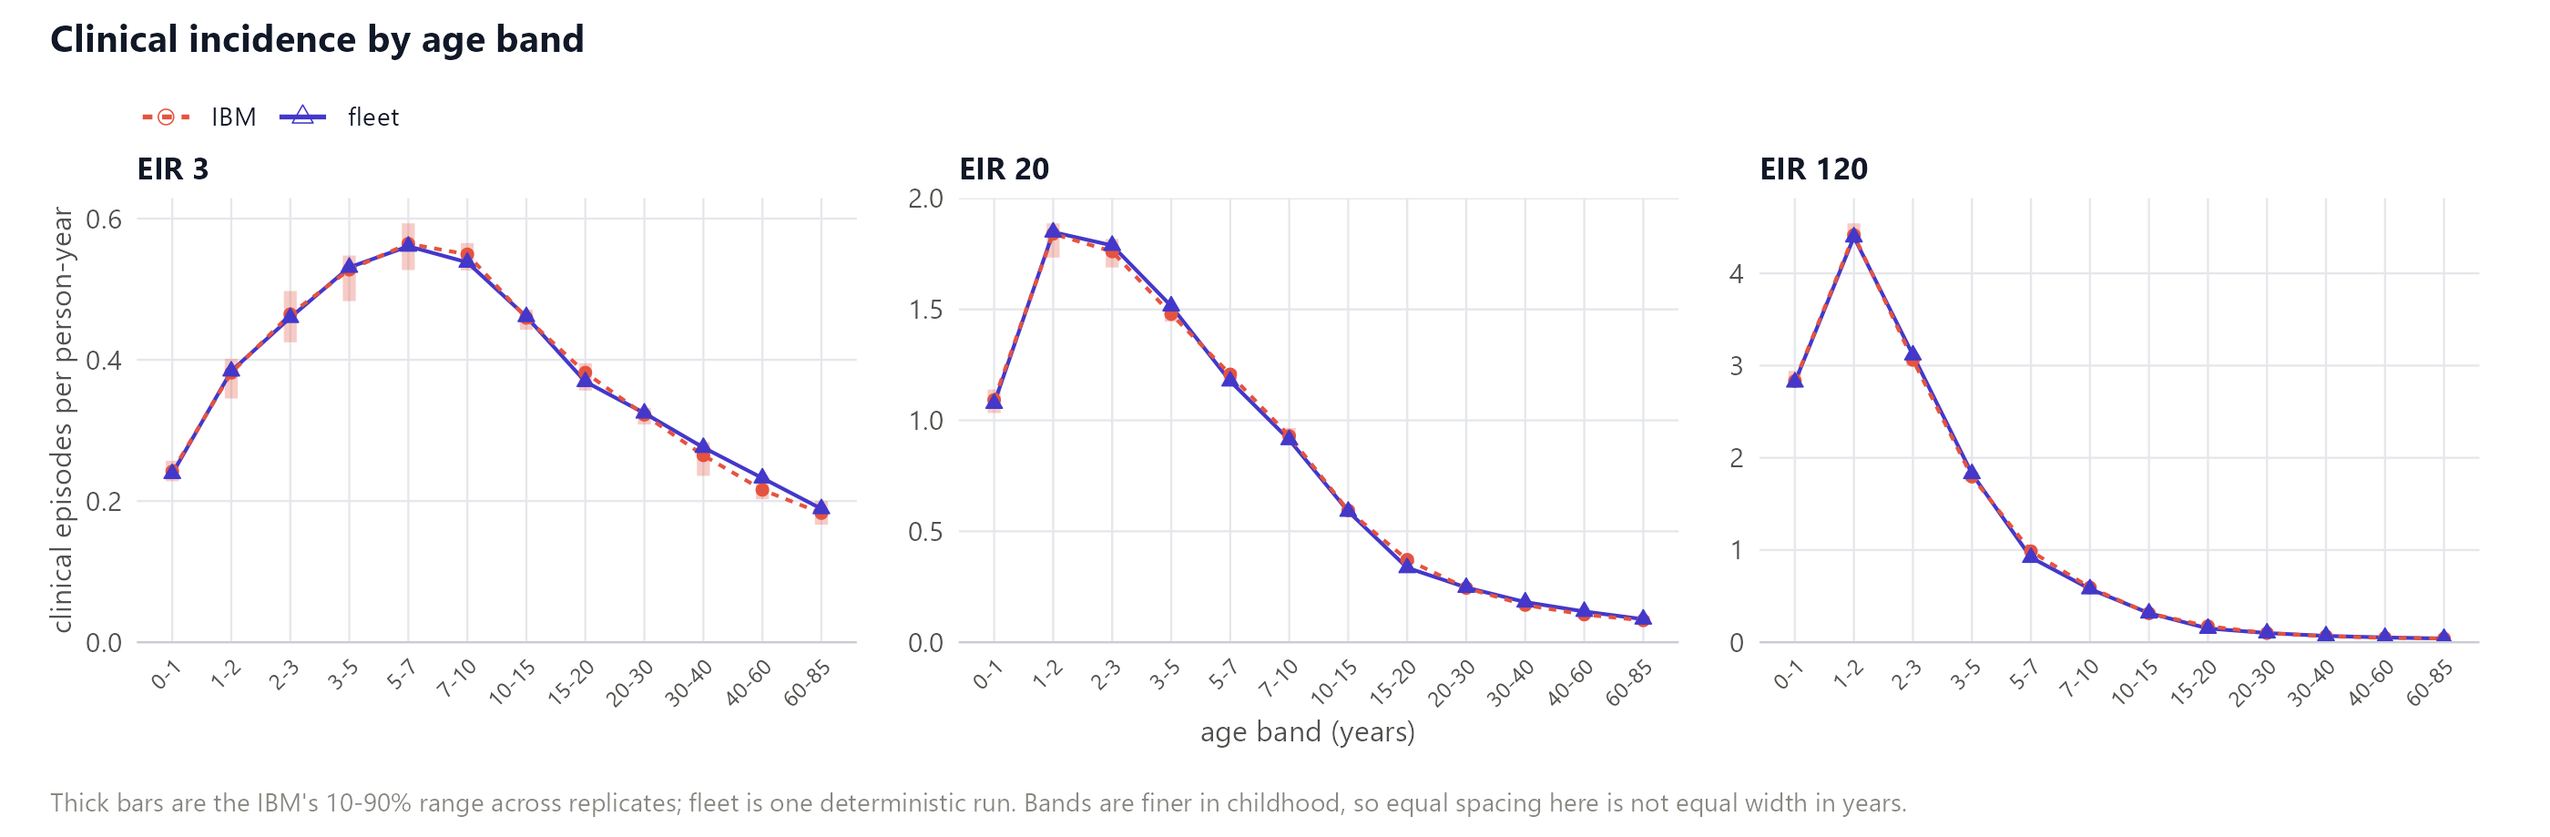
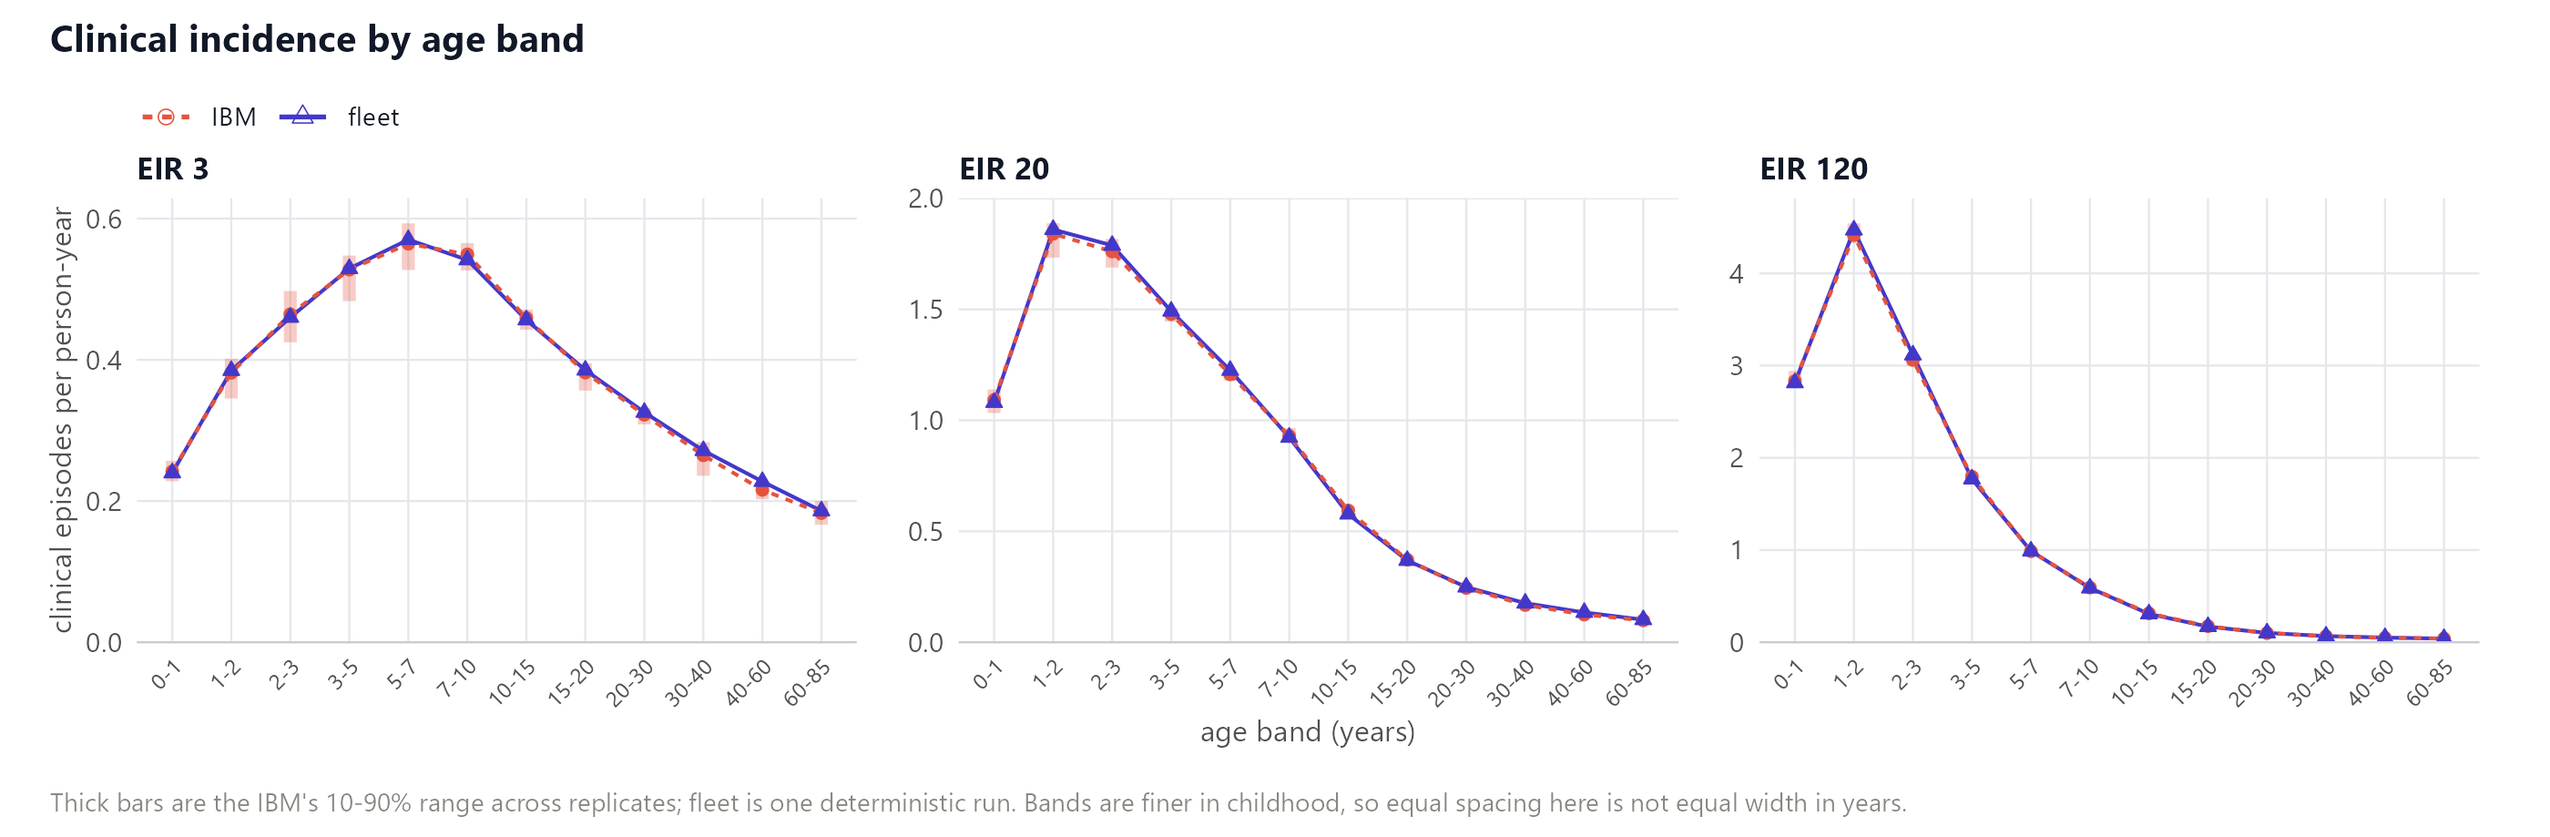
Deploying to gh-pages from @ pwinskill/fleetcheck@c1ee1c31452591e9664565759572b09e9a0bfec2 🚀

diff --git a/articles/evidence.html b/articles/evidence.html
@@ -71,7 +71,7 @@ them at the end.</p>
 <p>Every section is generated from <code>claims.yml</code>, so this page
 cannot disagree with the register, and the register cannot be changed
 without the page following.</p>
-<p><strong>11 claims — 1 failing, 0 untested, 0 open, 10
+<p><strong>11 claims — 1 failing, 0 untested, 1 open, 9
 pass.</strong></p>
 <table class="table">
 <colgroup>
@@ -93,7 +93,7 @@ pass.</strong></p>
 <td><a href="#prevalence-eir"><code>prevalence-eir</code></a></td>
 <td>2</td>
 <td>inside the IBM 10-90% replicate band at every EIR on the grid</td>
-<td>inside at 6 of 6; largest departure 1.00% of the IBM median</td>
+<td>inside at 6 of 6; largest departure 0.94% of the IBM median</td>
 <td><span class="verdict pass">pass</span></td>
 </tr>
 <tr class="even">
@@ -122,8 +122,8 @@ pass.</strong></p>
 <td>2</td>
 <td>inside the IBM 10-90% replicate band in every age band, at EIR 3, 20
 and 120</td>
-<td>inside at 28 of 36 bands across the three EIRs – 11 of 12 at EIR 3,
-7 of 12 at EIR 20, 10 of 12 at EIR 120; largest departure 13.8% of the
+<td>inside at 35 of 36 bands across the three EIRs – 12 of 12 at EIR 3,
+11 of 12 at EIR 20, 12 of 12 at EIR 120; largest departure 7.7% of the
 IBM median</td>
 <td><span class="verdict fail">FAIL</span></td>
 </tr>
@@ -133,7 +133,7 @@ IBM median</td>
 <td>inside the IBM 10-90% replicate band in every age band with non-zero
 IBM incidence, at EIR 3, 20 and 120</td>
 <td>inside at 31 of 31 bands across the three EIRs; largest departure
-88% of the IBM median, in a band an order of magnitude wider than
+83% of the IBM median, in a band an order of magnitude wider than
 that</td>
 <td><span class="verdict pass">pass</span></td>
 </tr>
@@ -142,7 +142,7 @@ that</td>
 <td>2</td>
 <td>within 0.6 percentage points of the IBM replicate band on every
 outcome</td>
-<td>inside the band on 18 of 20; worst excursion 0.36 percentage
+<td>inside the band on 22 of 24; worst excursion 0.36 percentage
 points</td>
 <td><span class="verdict pass">pass</span></td>
 </tr>
@@ -151,8 +151,9 @@ points</td>
 <td>3</td>
 <td>r &gt; 0.95 and |slope - 1| &lt; 0.10 on both clinical and severe
 incidence</td>
-<td>clinical r 0.982 slope 0.997; severe r 0.958 slope 0.946</td>
-<td><span class="verdict pass">pass</span></td>
+<td>clinical r 0.982 slope 0.997; severe r 0.958 slope 0.946 – on the
+age grid fleet used before it was log-spaced</td>
+<td><span class="verdict open">open</span></td>
 </tr>
 <tr class="odd">
 <td><a href="#population-age-structure"><code>population-age-structure</code></a></td>
@@ -166,8 +167,8 @@ years, on shares renormalised to the 0-60 population</td>
 <td><a href="#speed"><code>speed</code></a></td>
 <td>2</td>
 <td>at least 10x faster than the IBM on the same scenario set</td>
-<td>19x on cost per simulated year; 10.7 CPU-hours for the IBM against
-103 s for fleet</td>
+<td>20x on cost per simulated year; 12.4 CPU-hours for the IBM against
+110 s for fleet</td>
 <td><span class="verdict pass">pass</span></td>
 </tr>
 <tr class="odd">
@@ -208,7 +209,7 @@ tracks the IBM across transmission intensity.</p>
 <p class="claim-meta">
 tier 2 · <code>validations/02-scenarios</code>
 </p>
-<p>fleet sits within 1.6% of the IBM median at every EIR on the
+<p>fleet sits within 1.3% of the IBM median at every EIR on the
 grid.</p>
 <p><img src="cmp_eir_clin_0_5.png" alt="Under-5 clinical incidence tracks the IBM across transmission intensity."></p>
 </div>
@@ -236,20 +237,18 @@ clinical incidence tracks the IBM.</p>
 <p class="claim-meta">
 tier 2 · <code>validations/02-scenarios</code>
 </p>
-<p>The misses are not confined to bands where the disease is rare: the
-five outside the range at EIR 20 hold 39% of clinical episodes. Only
-part of this is discretisation, and refining the age grid does not fix
-it. Doubling the resolution everywhere brings the adult bands inside and
-takes the count from 28 of 36 to 30, but further refinement makes it
-worse again – 27 of 36 at 409 age groups – because the departure
-converges to a +4 to +7% excess in children under 7 that is no smaller
-at 409 groups than at 205. Those bands carry the IBM’s tightest
-replicate range, about 4% of the median, so a converged offset of that
-size fails them at any resolution. What remains is the mean-field
-approximation itself: fleet evaluates each immunity-dependent
-probability once per age group, at that group’s mean immunity, and
-averaging a convex function that way is biased however finely age is
-resolved.</p>
+<p>One band is outside, 40-60 y at EIR 20, by 7.7%. It holds 1.7% of
+clinical episodes. At EIR 3 and EIR 120 every band is inside.
+Log-spacing the age grid is what moved this, from 28 of 36 bands to 35.
+What did not work was simply using more groups: refining the old grid
+uniformly took it to 30 of 36 and then back to 27 at 409 age groups,
+because the departure converges rather than vanishing. Where the groups
+are placed mattered, and the count did not. The remaining gap is the
+mean-field approximation, not discretisation. fleet evaluates each
+immunity-dependent probability once per age group, at that group’s mean
+immunity, and averaging a convex function that way is biased however
+finely age is resolved. The claim is carried as a failure while one band
+is outside, rather than widening the criterion to fit.</p>
 <p><img src="cmp_age_clin.png" alt="The age distribution of clinical incidence tracks the IBM."></p>
 </div>
 <div class="section level2">
@@ -274,25 +273,47 @@ intervention matches the IBM.</p>
 <p class="claim-meta">
 tier 2 · <code>validations/02-scenarios</code>
 </p>
-<p>Refining the age grid four-fold moves absolute incidence by several
-per cent but changes these reductions by at most 1.0 percentage point,
-and by under 0.4 on eight of the ten intervention x outcome pairs:
-impact is a ratio of two runs that share the grid, so the bias largely
-divides out.</p>
+<p>Impact is a ratio of two runs that share the age grid, so grid bias
+largely divides out – and replacing the grid outright is the sharpest
+test of that available. Log-spacing it moved absolute incidence on every
+scenario and left the worst excursion here at 0.36 percentage points,
+the same value to two decimals as before. Perennial chemoprevention is
+included because it is the one intervention whose DELIVERY the two
+models disagree about by construction. The IBM doses each child on
+reaching a dose age; fleet has no individuals to trigger on and
+approximates that as monthly pulses over a 30-day band at each dose age.
+Over the three years after deployment the two agree on all four
+outcomes. Note this is a three-year window, and for chemoprevention that
+is the protective phase: measured instead at equilibrium 15 years on,
+fleet has all-age severe incidence 2% HIGHER with PMC than without, as
+protected infants reach older ages with less immunity. Whether the IBM
+produces the same rebound is not tested here and would need a longer
+horizon.</p>
 <p><img src="cmp_int_impact.png" alt="The modelled impact of each intervention matches the IBM."></p>
 </div>
 <div class="section level2">
 <h2 id="real-settings-correlation">real-settings-correlation<a class="anchor" aria-label="anchor" href="#real-settings-correlation"></a>
 </h2>
-<p><span class="verdict pass">PASS</span> — Agreement holds across real
+<p><span class="verdict open">OPEN</span> — Agreement holds across real
 transmission settings, not just synthetic scenarios.</p>
 <p class="claim-meta">
 tier 3 · <code>validations/03-real-settings</code>
 </p>
-<p>r and slope test whether fleet tracks the IBM across 1,391 sub-sites,
-not whether it sits on top of it: fleet runs about 9% above on both
-outcomes, an excess near zero at high transmission with low treatment
-coverage that grows as either moves.</p>
+<p>STALE, and open rather than pass for that reason. These statistics
+were measured on the fixed monthly/quarterly/yearly grid; the default is
+now log-spaced, which moved every tier-2 outcome by 0.5 to 2.5%. The
+criterion was met when it was measured and nothing suggests it would not
+be met again – a near-uniform multiplicative shift moves slope rather
+than r, and the shift is upward, which takes clinical slope 0.997 toward
+1.007 and severe 0.946 toward 0.955, both still well inside 0.10. But
+that is an inference from the direction of the shift, not a measurement.
+Re-running it needs the malariaverse site files and about seven hours on
+a cluster, so it cannot be refreshed from this machine. Until someone
+does, this claim rests on a version of the model that no longer exists.
+What it tests, when it is current: whether fleet TRACKS the IBM across
+1,391 sub-sites, not whether it sits on top of it. fleet ran about 9%
+above on both outcomes, an excess near zero at high transmission with
+low treatment coverage that grew as either moved.</p>
 <p><img src="cmp_core_sites.png" alt="Agreement holds across real transmission settings, not just synthetic scenarios."></p>
 </div>
 <div class="section level2">

diff --git a/index.html b/index.html
@@ -58,7 +58,7 @@
 </h2>
 <p>Every claim <code>fleet</code> makes about agreeing with the IBM lives in <a href="https://github.com/pwinskill/fleetcheck/blob/main/claims.yml" class="external-link"><code>claims.yml</code></a>, with the criterion that decides it, the measured value, and a verdict. The register is the point of the repository: a reader should meet the verdict before the figures, not be left to infer it from a wall of plots.</p>
 <!-- BEGIN scoreboard -->
-<p><strong>11 claims — 1 failing, 0 untested, 0 open, 10 pass.</strong></p>
+<p><strong>11 claims — 1 failing, 0 untested, 1 open, 9 pass.</strong></p>
 <ol style="list-style-type: decimal">
 <li>
 <span class="verdict pass">pass</span> <a href="articles/evidence.html#prevalence-eir"><code>prevalence-eir</code></a> — LM prevalence in 2-10 year olds tracks the IBM across transmission intensity.</li>
@@ -75,7 +75,7 @@
 <li>
 <span class="verdict pass">pass</span> <a href="articles/evidence.html#intervention-impact"><code>intervention-impact</code></a> — The modelled impact of each intervention matches the IBM.</li>
 <li>
-<span class="verdict pass">pass</span> <a href="articles/evidence.html#real-settings-correlation"><code>real-settings-correlation</code></a> — Agreement holds across real transmission settings, not just synthetic scenarios.</li>
+<span class="verdict open">open</span> <a href="articles/evidence.html#real-settings-correlation"><code>real-settings-correlation</code></a> — Agreement holds across real transmission settings, not just synthetic scenarios.</li>
 <li>
 <span class="verdict pass">pass</span> <a href="articles/evidence.html#population-age-structure"><code>population-age-structure</code></a> — The population age structure matches the IBM’s.</li>
 <li>

diff --git a/articles/evidence.md b/articles/evidence.md
@@ -11,20 +11,20 @@ Every section is generated from `claims.yml`, so this page cannot
 disagree with the register, and the register cannot be changed without
 the page following.
 
-**11 claims — 1 failing, 0 untested, 0 open, 10 pass.**
+**11 claims — 1 failing, 0 untested, 1 open, 9 pass.**
 
 | claim | tier | criterion | measured | verdict |
 |----|----|----|----|----|
-| [`prevalence-eir`](#prevalence-eir) | 2 | inside the IBM 10-90% replicate band at every EIR on the grid | inside at 6 of 6; largest departure 1.00% of the IBM median | pass |
+| [`prevalence-eir`](#prevalence-eir) | 2 | inside the IBM 10-90% replicate band at every EIR on the grid | inside at 6 of 6; largest departure 0.94% of the IBM median | pass |
 | [`clinical-allage-eir`](#clinical-allage-eir) | 2 | inside the IBM 10-90% replicate band at every EIR on the grid | inside at 6 of 6 | pass |
 | [`clinical-under5-eir`](#clinical-under5-eir) | 2 | inside the IBM 10-90% replicate band at every EIR on the grid | inside at 6 of 6 | pass |
 | [`severe-allage-eir`](#severe-allage-eir) | 2 | inside the IBM 10-90% replicate band at every EIR on the grid | inside at 6 of 6 | pass |
-| [`age-profile-clinical`](#age-profile-clinical) | 2 | inside the IBM 10-90% replicate band in every age band, at EIR 3, 20 and 120 | inside at 28 of 36 bands across the three EIRs – 11 of 12 at EIR 3, 7 of 12 at EIR 20, 10 of 12 at EIR 120; largest departure 13.8% of the IBM median | FAIL |
-| [`age-profile-severe`](#age-profile-severe) | 2 | inside the IBM 10-90% replicate band in every age band with non-zero IBM incidence, at EIR 3, 20 and 120 | inside at 31 of 31 bands across the three EIRs; largest departure 88% of the IBM median, in a band an order of magnitude wider than that | pass |
-| [`intervention-impact`](#intervention-impact) | 2 | within 0.6 percentage points of the IBM replicate band on every outcome | inside the band on 18 of 20; worst excursion 0.36 percentage points | pass |
-| [`real-settings-correlation`](#real-settings-correlation) | 3 | r \> 0.95 and \|slope - 1\| \< 0.10 on both clinical and severe incidence | clinical r 0.982 slope 0.997; severe r 0.958 slope 0.946 | pass |
+| [`age-profile-clinical`](#age-profile-clinical) | 2 | inside the IBM 10-90% replicate band in every age band, at EIR 3, 20 and 120 | inside at 35 of 36 bands across the three EIRs – 12 of 12 at EIR 3, 11 of 12 at EIR 20, 12 of 12 at EIR 120; largest departure 7.7% of the IBM median | FAIL |
+| [`age-profile-severe`](#age-profile-severe) | 2 | inside the IBM 10-90% replicate band in every age band with non-zero IBM incidence, at EIR 3, 20 and 120 | inside at 31 of 31 bands across the three EIRs; largest departure 83% of the IBM median, in a band an order of magnitude wider than that | pass |
+| [`intervention-impact`](#intervention-impact) | 2 | within 0.6 percentage points of the IBM replicate band on every outcome | inside the band on 22 of 24; worst excursion 0.36 percentage points | pass |
+| [`real-settings-correlation`](#real-settings-correlation) | 3 | r \> 0.95 and \|slope - 1\| \< 0.10 on both clinical and severe incidence | clinical r 0.982 slope 0.997; severe r 0.958 slope 0.946 – on the age grid fleet used before it was log-spaced | open |
 | [`population-age-structure`](#population-age-structure) | 2 | inside the IBM 10-90% replicate band in every age band below 60 years, on shares renormalised to the 0-60 population | inside at 11 of 11; largest departure 1.3% of the IBM median | pass |
-| [`speed`](#speed) | 2 | at least 10x faster than the IBM on the same scenario set | 19x on cost per simulated year; 10.7 CPU-hours for the IBM against 103 s for fleet | pass |
+| [`speed`](#speed) | 2 | at least 10x faster than the IBM on the same scenario set | 20x on cost per simulated year; 12.4 CPU-hours for the IBM against 110 s for fleet | pass |
 | [`seed-stability`](#seed-stability) | 1 | PfPR(2-10) departs from its seeded value by less than 1% over 15 years at EIR 20 | 0.28% maximum excursion; flat to 0.02% over the last five years | pass |
 
 ## prevalence-eir
@@ -54,7 +54,7 @@ intensity.
 
 tier 2 · `validations/02-scenarios`
 
-fleet sits within 1.6% of the IBM median at every EIR on the grid.
+fleet sits within 1.3% of the IBM median at every EIR on the grid.
 
 ![Under-5 clinical incidence tracks the IBM across transmission
 intensity.](cmp_eir_clin_0_5.png)
@@ -82,20 +82,18 @@ FAIL — The age distribution of clinical incidence tracks the IBM.
 
 tier 2 · `validations/02-scenarios`
 
-The misses are not confined to bands where the disease is rare: the five
-outside the range at EIR 20 hold 39% of clinical episodes. Only part of
-this is discretisation, and refining the age grid does not fix it.
-Doubling the resolution everywhere brings the adult bands inside and
-takes the count from 28 of 36 to 30, but further refinement makes it
-worse again – 27 of 36 at 409 age groups – because the departure
-converges to a +4 to +7% excess in children under 7 that is no smaller
-at 409 groups than at 205. Those bands carry the IBM’s tightest
-replicate range, about 4% of the median, so a converged offset of that
-size fails them at any resolution. What remains is the mean-field
-approximation itself: fleet evaluates each immunity-dependent
-probability once per age group, at that group’s mean immunity, and
-averaging a convex function that way is biased however finely age is
-resolved.
+One band is outside, 40-60 y at EIR 20, by 7.7%. It holds 1.7% of
+clinical episodes. At EIR 3 and EIR 120 every band is inside.
+Log-spacing the age grid is what moved this, from 28 of 36 bands to 35.
+What did not work was simply using more groups: refining the old grid
+uniformly took it to 30 of 36 and then back to 27 at 409 age groups,
+because the departure converges rather than vanishing. Where the groups
+are placed mattered, and the count did not. The remaining gap is the
+mean-field approximation, not discretisation. fleet evaluates each
+immunity-dependent probability once per age group, at that group’s mean
+immunity, and averaging a convex function that way is biased however
+finely age is resolved. The claim is carried as a failure while one band
+is outside, rather than widening the criterion to fit.
 
 ![The age distribution of clinical incidence tracks the
 IBM.](cmp_age_clin.png)
@@ -119,26 +117,48 @@ PASS — The modelled impact of each intervention matches the IBM.
 
 tier 2 · `validations/02-scenarios`
 
-Refining the age grid four-fold moves absolute incidence by several per
-cent but changes these reductions by at most 1.0 percentage point, and
-by under 0.4 on eight of the ten intervention x outcome pairs: impact is
-a ratio of two runs that share the grid, so the bias largely divides
-out.
+Impact is a ratio of two runs that share the age grid, so grid bias
+largely divides out – and replacing the grid outright is the sharpest
+test of that available. Log-spacing it moved absolute incidence on every
+scenario and left the worst excursion here at 0.36 percentage points,
+the same value to two decimals as before. Perennial chemoprevention is
+included because it is the one intervention whose DELIVERY the two
+models disagree about by construction. The IBM doses each child on
+reaching a dose age; fleet has no individuals to trigger on and
+approximates that as monthly pulses over a 30-day band at each dose age.
+Over the three years after deployment the two agree on all four
+outcomes. Note this is a three-year window, and for chemoprevention that
+is the protective phase: measured instead at equilibrium 15 years on,
+fleet has all-age severe incidence 2% HIGHER with PMC than without, as
+protected infants reach older ages with less immunity. Whether the IBM
+produces the same rebound is not tested here and would need a longer
+horizon.
 
 ![The modelled impact of each intervention matches the
 IBM.](cmp_int_impact.png)
 
 ## real-settings-correlation
 
-PASS — Agreement holds across real transmission settings, not just
+OPEN — Agreement holds across real transmission settings, not just
 synthetic scenarios.
 
 tier 3 · `validations/03-real-settings`
 
-r and slope test whether fleet tracks the IBM across 1,391 sub-sites,
-not whether it sits on top of it: fleet runs about 9% above on both
-outcomes, an excess near zero at high transmission with low treatment
-coverage that grows as either moves.
+STALE, and open rather than pass for that reason. These statistics were
+measured on the fixed monthly/quarterly/yearly grid; the default is now
+log-spaced, which moved every tier-2 outcome by 0.5 to 2.5%. The
+criterion was met when it was measured and nothing suggests it would not
+be met again – a near-uniform multiplicative shift moves slope rather
+than r, and the shift is upward, which takes clinical slope 0.997 toward
+1.007 and severe 0.946 toward 0.955, both still well inside 0.10. But
+that is an inference from the direction of the shift, not a measurement.
+Re-running it needs the malariaverse site files and about seven hours on
+a cluster, so it cannot be refreshed from this machine. Until someone
+does, this claim rests on a version of the model that no longer exists.
+What it tests, when it is current: whether fleet TRACKS the IBM across
+1,391 sub-sites, not whether it sits on top of it. fleet ran about 9%
+above on both outcomes, an excess near zero at high transmission with
+low treatment coverage that grew as either moved.
 
 ![Agreement holds across real transmission settings, not just synthetic
 scenarios.](cmp_core_sites.png)

diff --git a/index.md b/index.md
@@ -18,7 +18,7 @@ The register is the point of the repository: a reader should meet the
 verdict before the figures, not be left to infer it from a wall of
 plots.
 
-**11 claims — 1 failing, 0 untested, 0 open, 10 pass.**
+**11 claims — 1 failing, 0 untested, 1 open, 9 pass.**
 
 1.  pass
     [`prevalence-eir`](https://pwinskill.github.io/fleetcheck/articles/evidence.html#prevalence-eir)
@@ -45,7 +45,7 @@ plots.
 7.  pass
     [`intervention-impact`](https://pwinskill.github.io/fleetcheck/articles/evidence.html#intervention-impact)
     — The modelled impact of each intervention matches the IBM.
-8.  pass
+8.  open
     [`real-settings-correlation`](https://pwinskill.github.io/fleetcheck/articles/evidence.html#real-settings-correlation)
     — Agreement holds across real transmission settings, not just
     synthetic scenarios.
